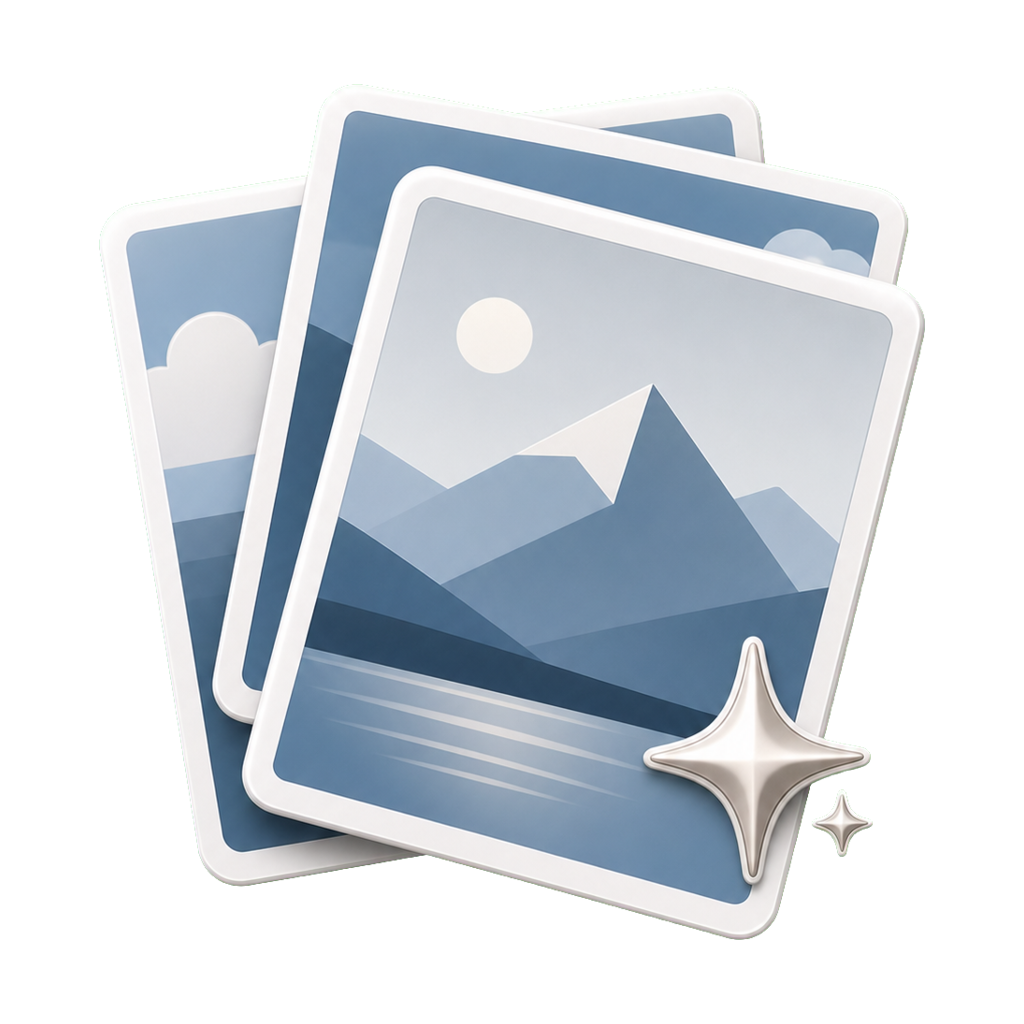
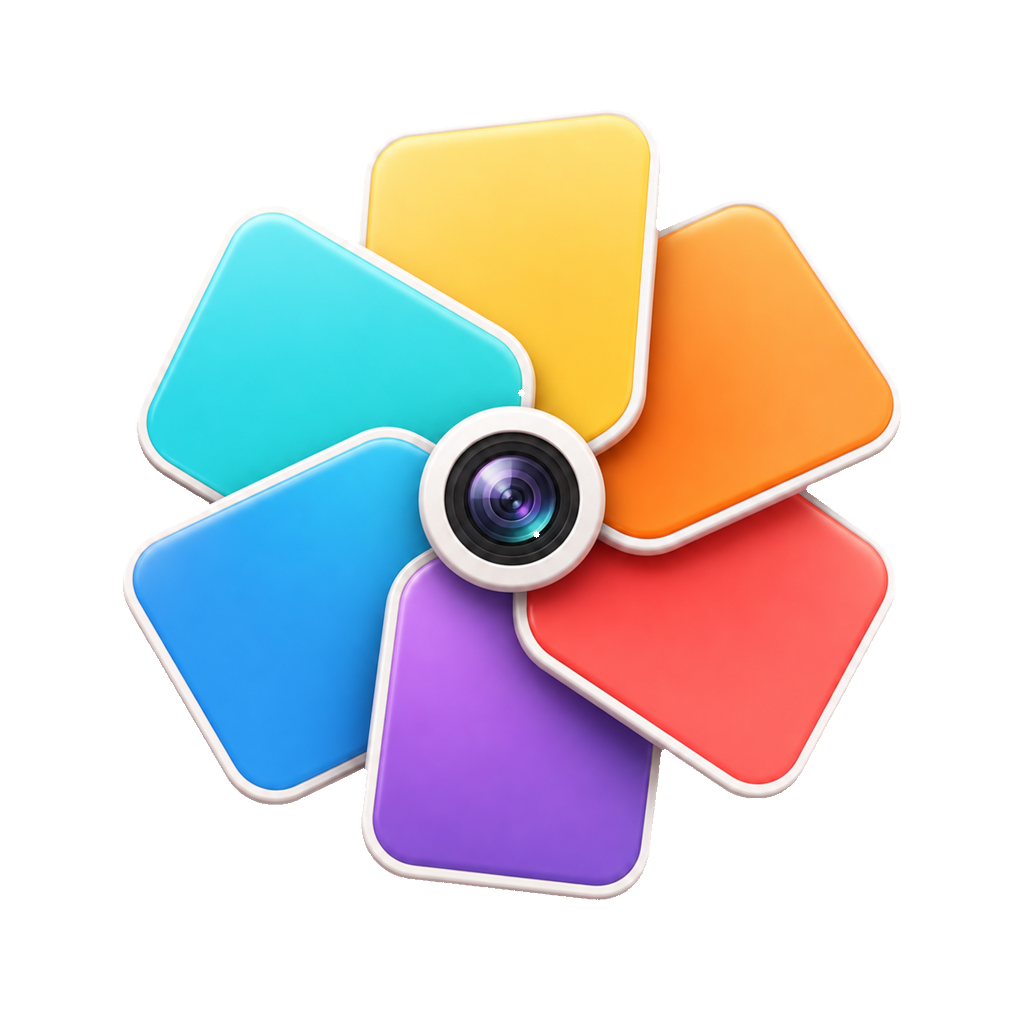
fix: update Apple Photos Gallery description and add star size option for constellations integration

diff --git a/README.md b/README.md
@@ -59,7 +59,7 @@ For local development, use `http://localhost:3000/<slug>/config.json`.
 | Icon | Integration | Demo | Manifest URL | Description |
 | --- | --- | --- | --- | --- |
 | <img src="applications/airtable/assets/icon.png" alt="" width="128" height="128"> | [Airtable](applications/airtable/README.md) | [run](https://integrations.paperlesspaper.de/airtable/run) | [config](https://integrations.paperlesspaper.de/airtable/config.json) | Shows one or more Airtable tables as compact eInk-friendly data views. |
-| <img src="applications/apple-photos-gallery/assets/icon.png" alt="" width="128" height="128"> | [Apple Photos Gallery](applications/apple-photos-gallery/README.md) | [run](https://integrations.paperlesspaper.de/apple-photos-gallery/run) | [config](https://integrations.paperlesspaper.de/apple-photos-gallery/config.json) | Shows a random or numbered image from a public Apple Photos shared album. |
+| <img src="applications/apple-photos-gallery/assets/icon.png" alt="" width="128" height="128"> | [Apple Photos Gallery](applications/apple-photos-gallery/README.md) | [run](https://integrations.paperlesspaper.de/apple-photos-gallery/run) | [config](https://integrations.paperlesspaper.de/apple-photos-gallery/config.json) | Shows a random or numbered image from a public iCloud shared album. |
 | <img src="applications/astronauts/assets/icon.png" alt="" width="128" height="128"> | [Astronauts](applications/astronauts/README.md) | [run](https://integrations.paperlesspaper.de/astronauts/run) | [config](https://integrations.paperlesspaper.de/astronauts/config.json) | Shows the current people in space, grouped by spacecraft or station. |
 | <img src="applications/bible-verses/assets/icon.png" alt="" width="128" height="128"> | [Bible Verses](applications/bible-verses/README.md) | [run](https://integrations.paperlesspaper.de/bible-verses/run) | [config](https://integrations.paperlesspaper.de/bible-verses/config.json) | Shows a random Bible verse or a curated verse of the day. |
 | <img src="applications/bike-commute-card/assets/icon.png" alt="" width="128" height="128"> | [Bike Commute Card](applications/bike-commute-card/README.md) | [run](https://integrations.paperlesspaper.de/bike-commute-card/run) | [config](https://integrations.paperlesspaper.de/bike-commute-card/config.json) | Shows rain window, wind, route status, and air quality for a bike commute. |

diff --git a/applications/constellations-in-the-sky/README.md b/applications/constellations-in-the-sky/README.md
@@ -44,6 +44,7 @@ VirtualSky gives the integration a real observer-based sky projection without AP
 - `projection`: stereo, polar, lambert, ortho, mollweide, or planechart.
 - `direction`: facing azimuth in degrees.
 - `magnitude`: faintest star magnitude to display.
+- `starSize`: scale the rendered star dots.
 - `showLabels`: show or hide constellation labels.
 - `showMilkyWay`: draw the Milky Way outline.
 - `showBoundaries`: draw IAU constellation boundaries.